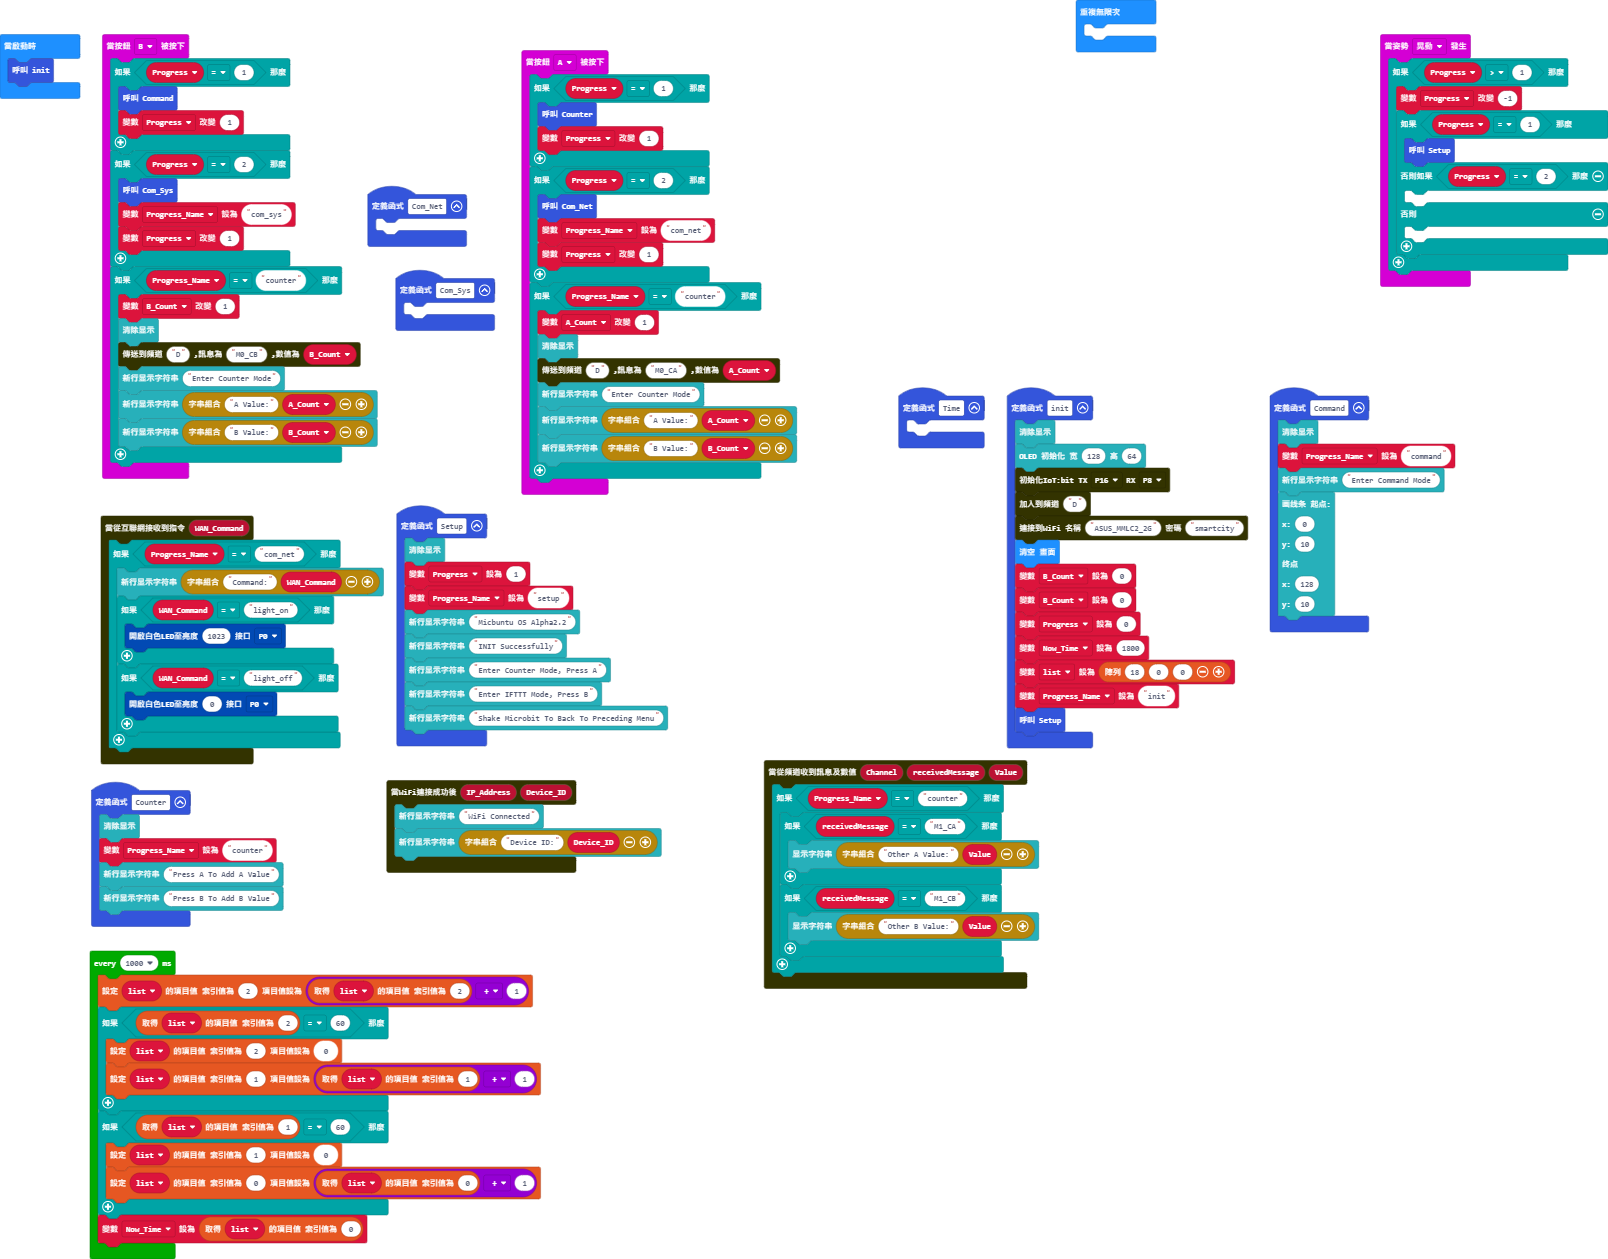
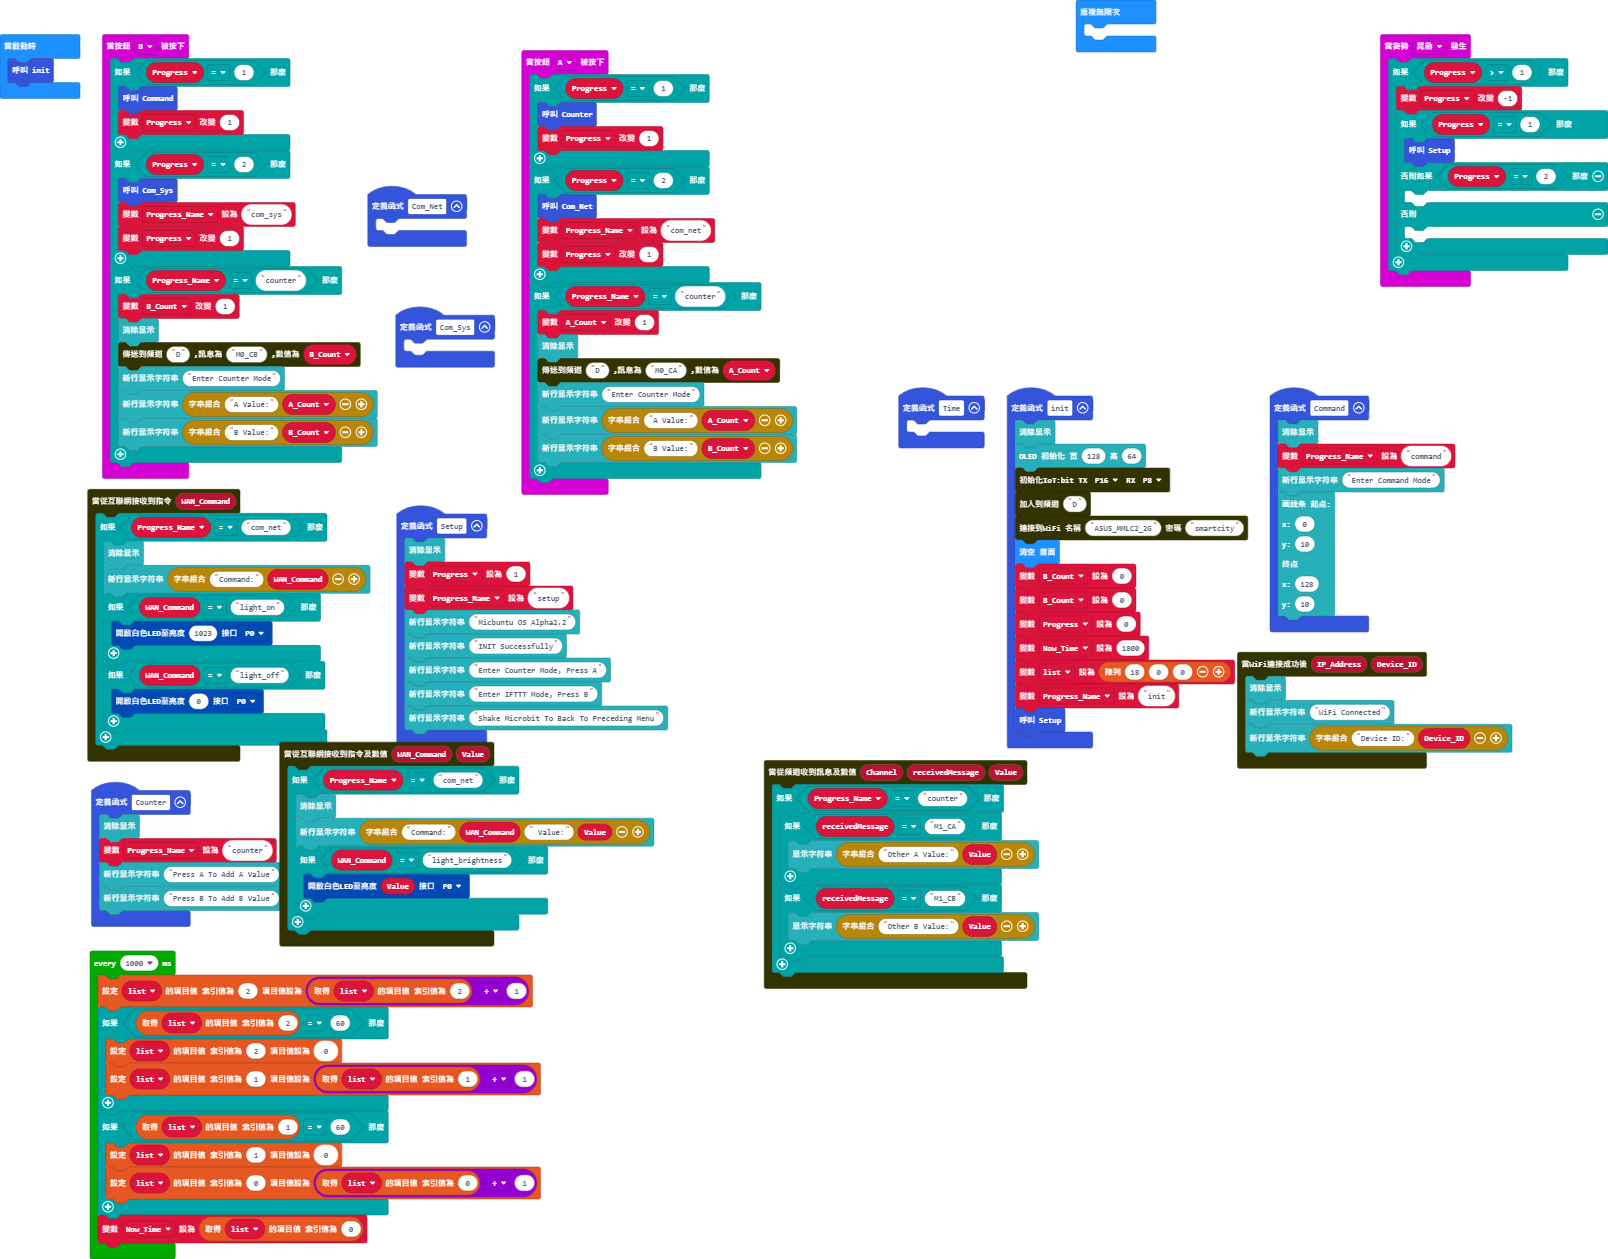
更新 pxt.json, main.blocks, main.ts

Changed region(s): [[0.0311, 0.3717, 0.4353, 0.7744], [0.7463, 0.4956, 0.9639, 0.6195], [0.2488, 0.2168, 0.3109, 0.3098]]

diff --git a/main.ts b/main.ts
@@ -13,6 +13,7 @@ function Command () {
     )
 }
 WiFiIoT.on_wifi_connect(function (IP_Address, Device_ID) {
+    OLED.clear()
     OLED.writeStringNewLine("WiFi Connected")
     OLED.writeStringNewLine("Device ID:" + Device_ID)
 })
@@ -56,6 +57,7 @@ input.onButtonPressed(Button.A, function () {
 })
 WiFiIoT.on_WAN_remote(function (WAN_Command) {
     if (Progress_Name == "com_net") {
+        OLED.clear()
         OLED.writeStringNewLine("Command:" + WAN_Command)
         if (WAN_Command == "light_on") {
             SmartCity.turn_white_led(1023, AnalogPin.P0)
@@ -124,6 +126,15 @@ input.onButtonPressed(Button.B, function () {
 function Time () {
 	
 }
+WiFiIoT.on_WAN_remote_value(function (WAN_Command, Value) {
+    if (Progress_Name == "com_net") {
+        OLED.clear()
+        OLED.writeStringNewLine("Command:" + WAN_Command + " Value:" + Value)
+        if (WAN_Command == "light_brightness") {
+            SmartCity.turn_white_led(Value, AnalogPin.P0)
+        }
+    }
+})
 let list: number[] = []
 let Now_Time = 0
 let B_Count = 0
